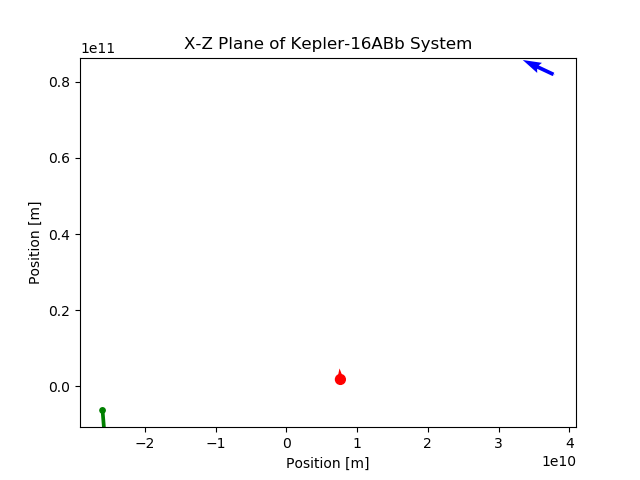
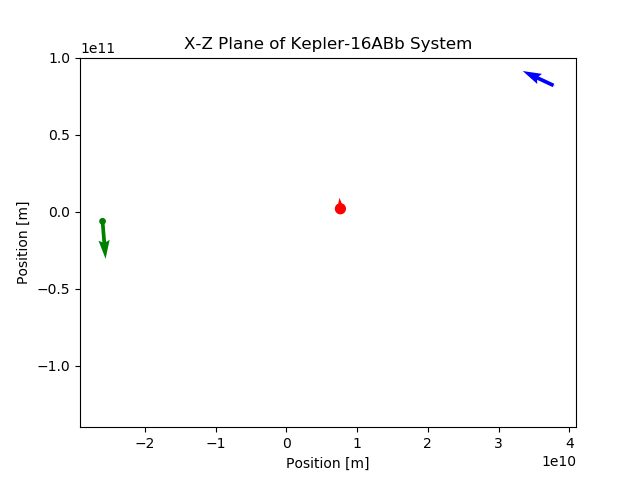
zoomed out kepler16InitialConditions.png

diff --git a/EarthInCircularOrbit.py b/EarthInCircularOrbit.py
@@ -37,8 +37,9 @@ import matplotlib.pyplot as plt
 import os
 from main import calculateTrajectories
 
-# Question 5.
-#-------------------------------------------------------------------------------
+# Question 4.
+# evolve
+#-------------------------------------------------------------------------------#
 
 # set constants
 mInAu    = 1.496e11 # meters in AU
@@ -59,15 +60,16 @@ timeEvol *= secInDay #seconds
 timeStep *= secInDay #seconds
 
 # run simulation
-#-------------------------------------------------------------
+#-------------------------------------------------------------------------------#
 times, positionArray, velocityArray = calculateTrajectories(masses,initPos,initVel,timeEvol,timeStep)
 
 # convert back to AU and days
 positionArray /= mInAu
 times /= secInDay
 
+# Question 5.
 # plotting
-#------------------------------------------------------------
+#-------------------------------------------------------------------------------#
 
 simDir = os.path.dirname(os.path.abspath(__file__))
 outputDir = '/Output/Part 3/Question 5'

diff --git a/ExoplanetKepler16.py b/ExoplanetKepler16.py
@@ -63,6 +63,8 @@ ax.set_xlabel('Position [m]')
 ax.set_ylabel('Position [m]')
 ax.set_title('X-Z Plane of Kepler-16ABb System')
 
+ax.set_ylim(-.3e11,1.0e11)
+
 fig.savefig(simDir+outputDir+'/kepler16InitialConditions.png')
 
 # Question 9.
@@ -111,7 +113,7 @@ ax.quiver(positionArray[:,0,0],positionArray[:,2,0], velocityArray[:,0,0],veloci
 # animation function
 def animate(fnum):
     # progress bar
-    sys.stdout.write('\rdrawing frame {}/{}'.format(fnum,int((timeEvol/timeStep) + 1)))
+    sys.stdout.write('\rdrawing frame {}/{}'.format(fnum,int((timeEvol/timeStep))))
     sys.stdout.flush()
 
     # delete previous trajectory, markers, and velocity arrow

diff --git a/EarthInCircularOrbit2.py b/EarthInCircularOrbit2.py
@@ -29,6 +29,7 @@ Standard:
     matplotlib
     os
 
+
 Non-standard:
     main
 """
@@ -36,6 +37,10 @@ import numpy as np
 import matplotlib.pyplot as plt
 import os
 from main import calculateTrajectories
+
+# Question 6.
+# decreased init velocity
+#------------------------------------------------------------------------#
 
 # set constants
 mInAu    = 1.496e11 # meters in AU
